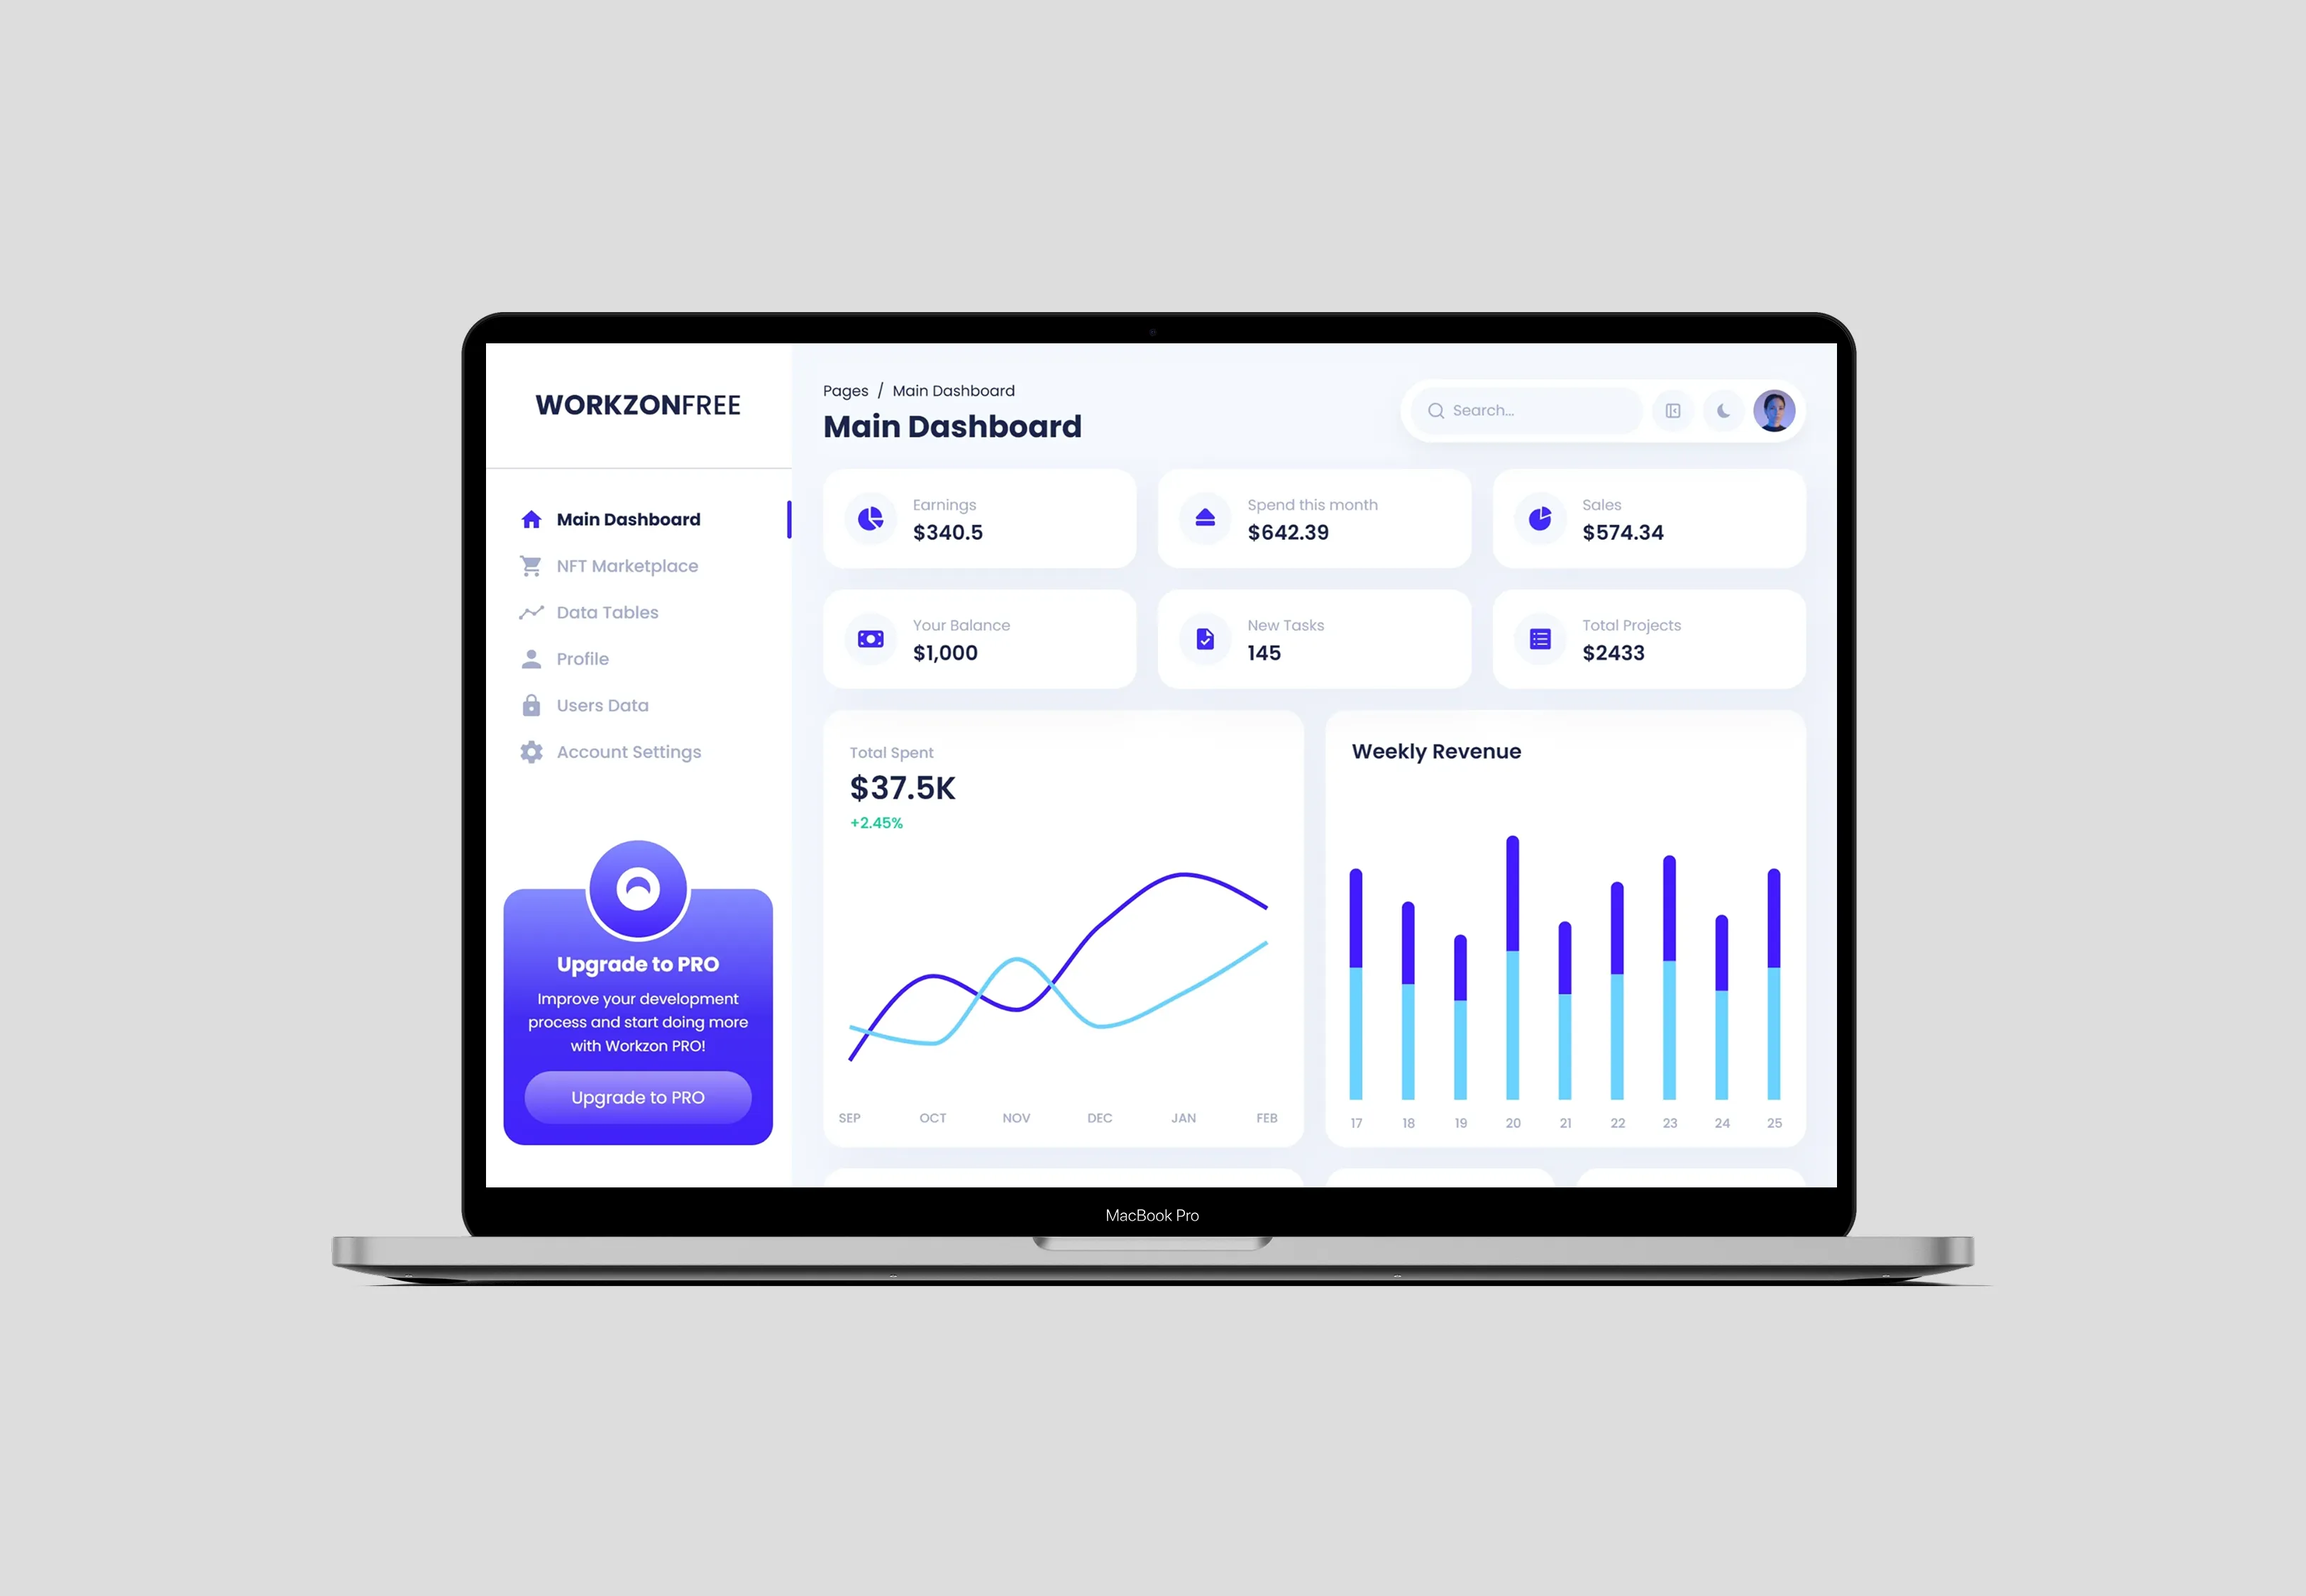
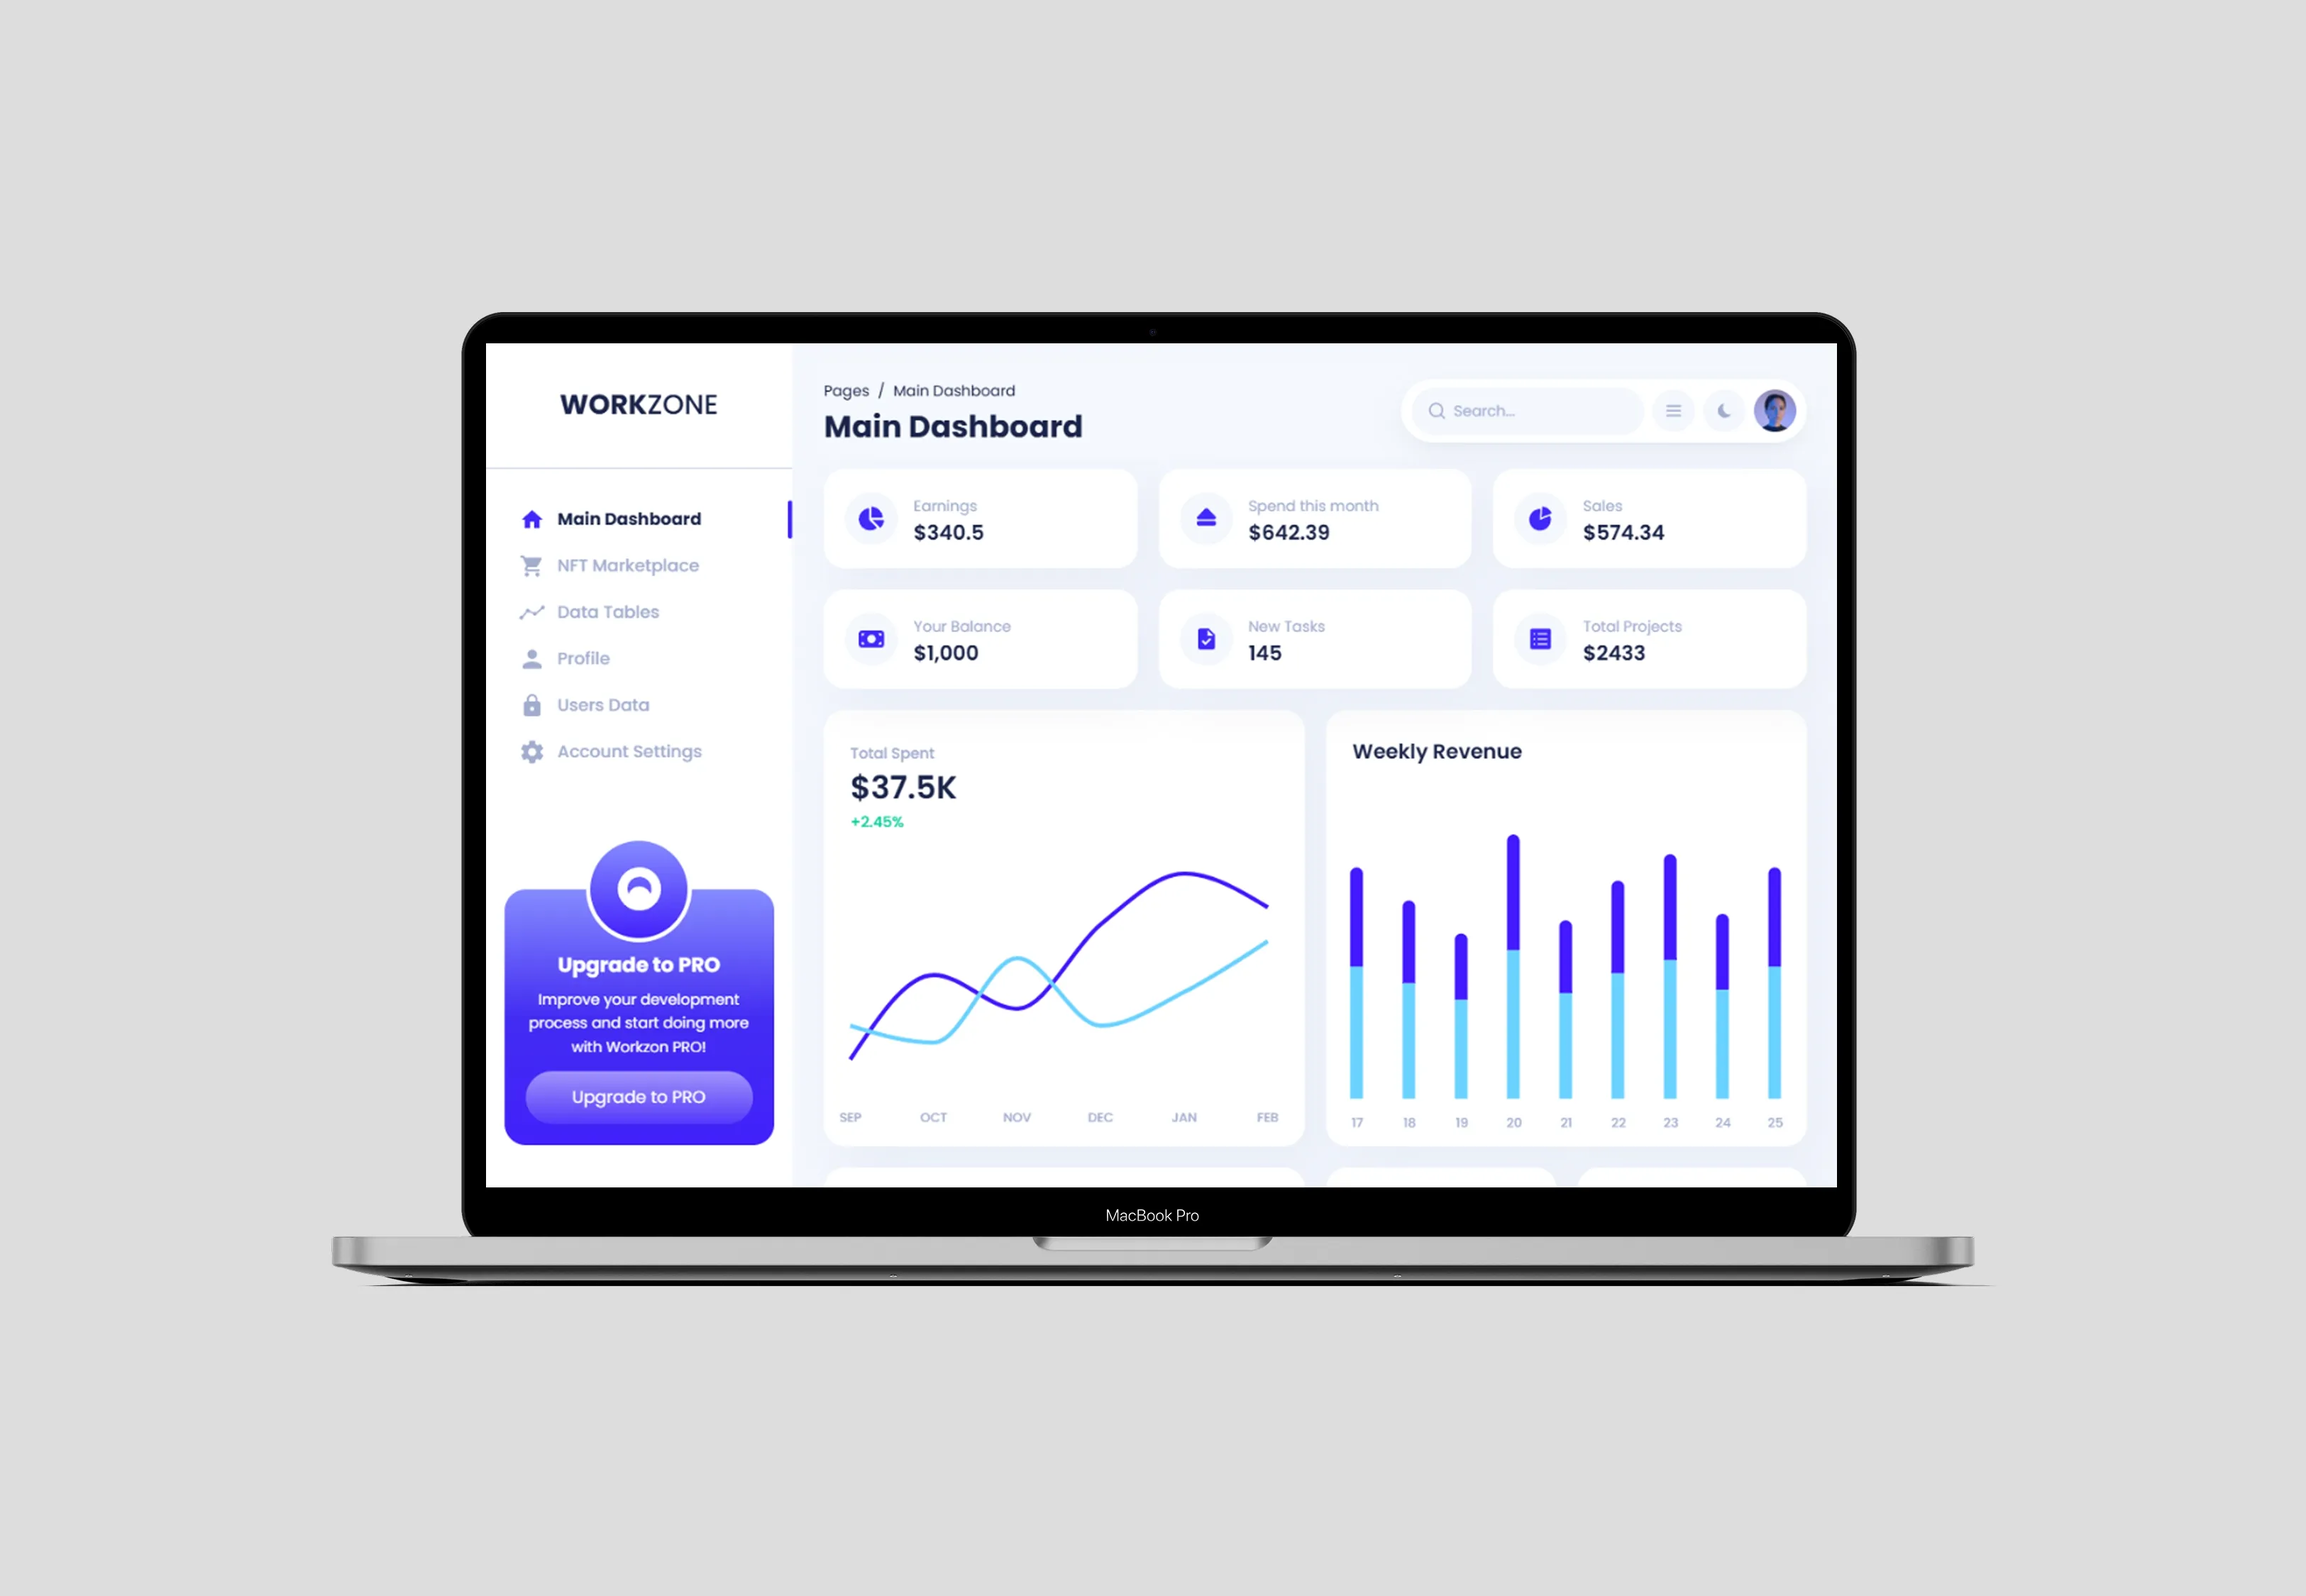
image update workzon

diff --git a/src/Data/Data.js b/src/Data/Data.js
@@ -93,7 +93,7 @@ export const worksCard = [
   },
   {
     id: 3,
-    title: "Workzon",
+    title: "Workzone",
     title2: "Dashboard",
     image: "/images/workzon.webp",
     link: "https://workzon.vercel.app/",
